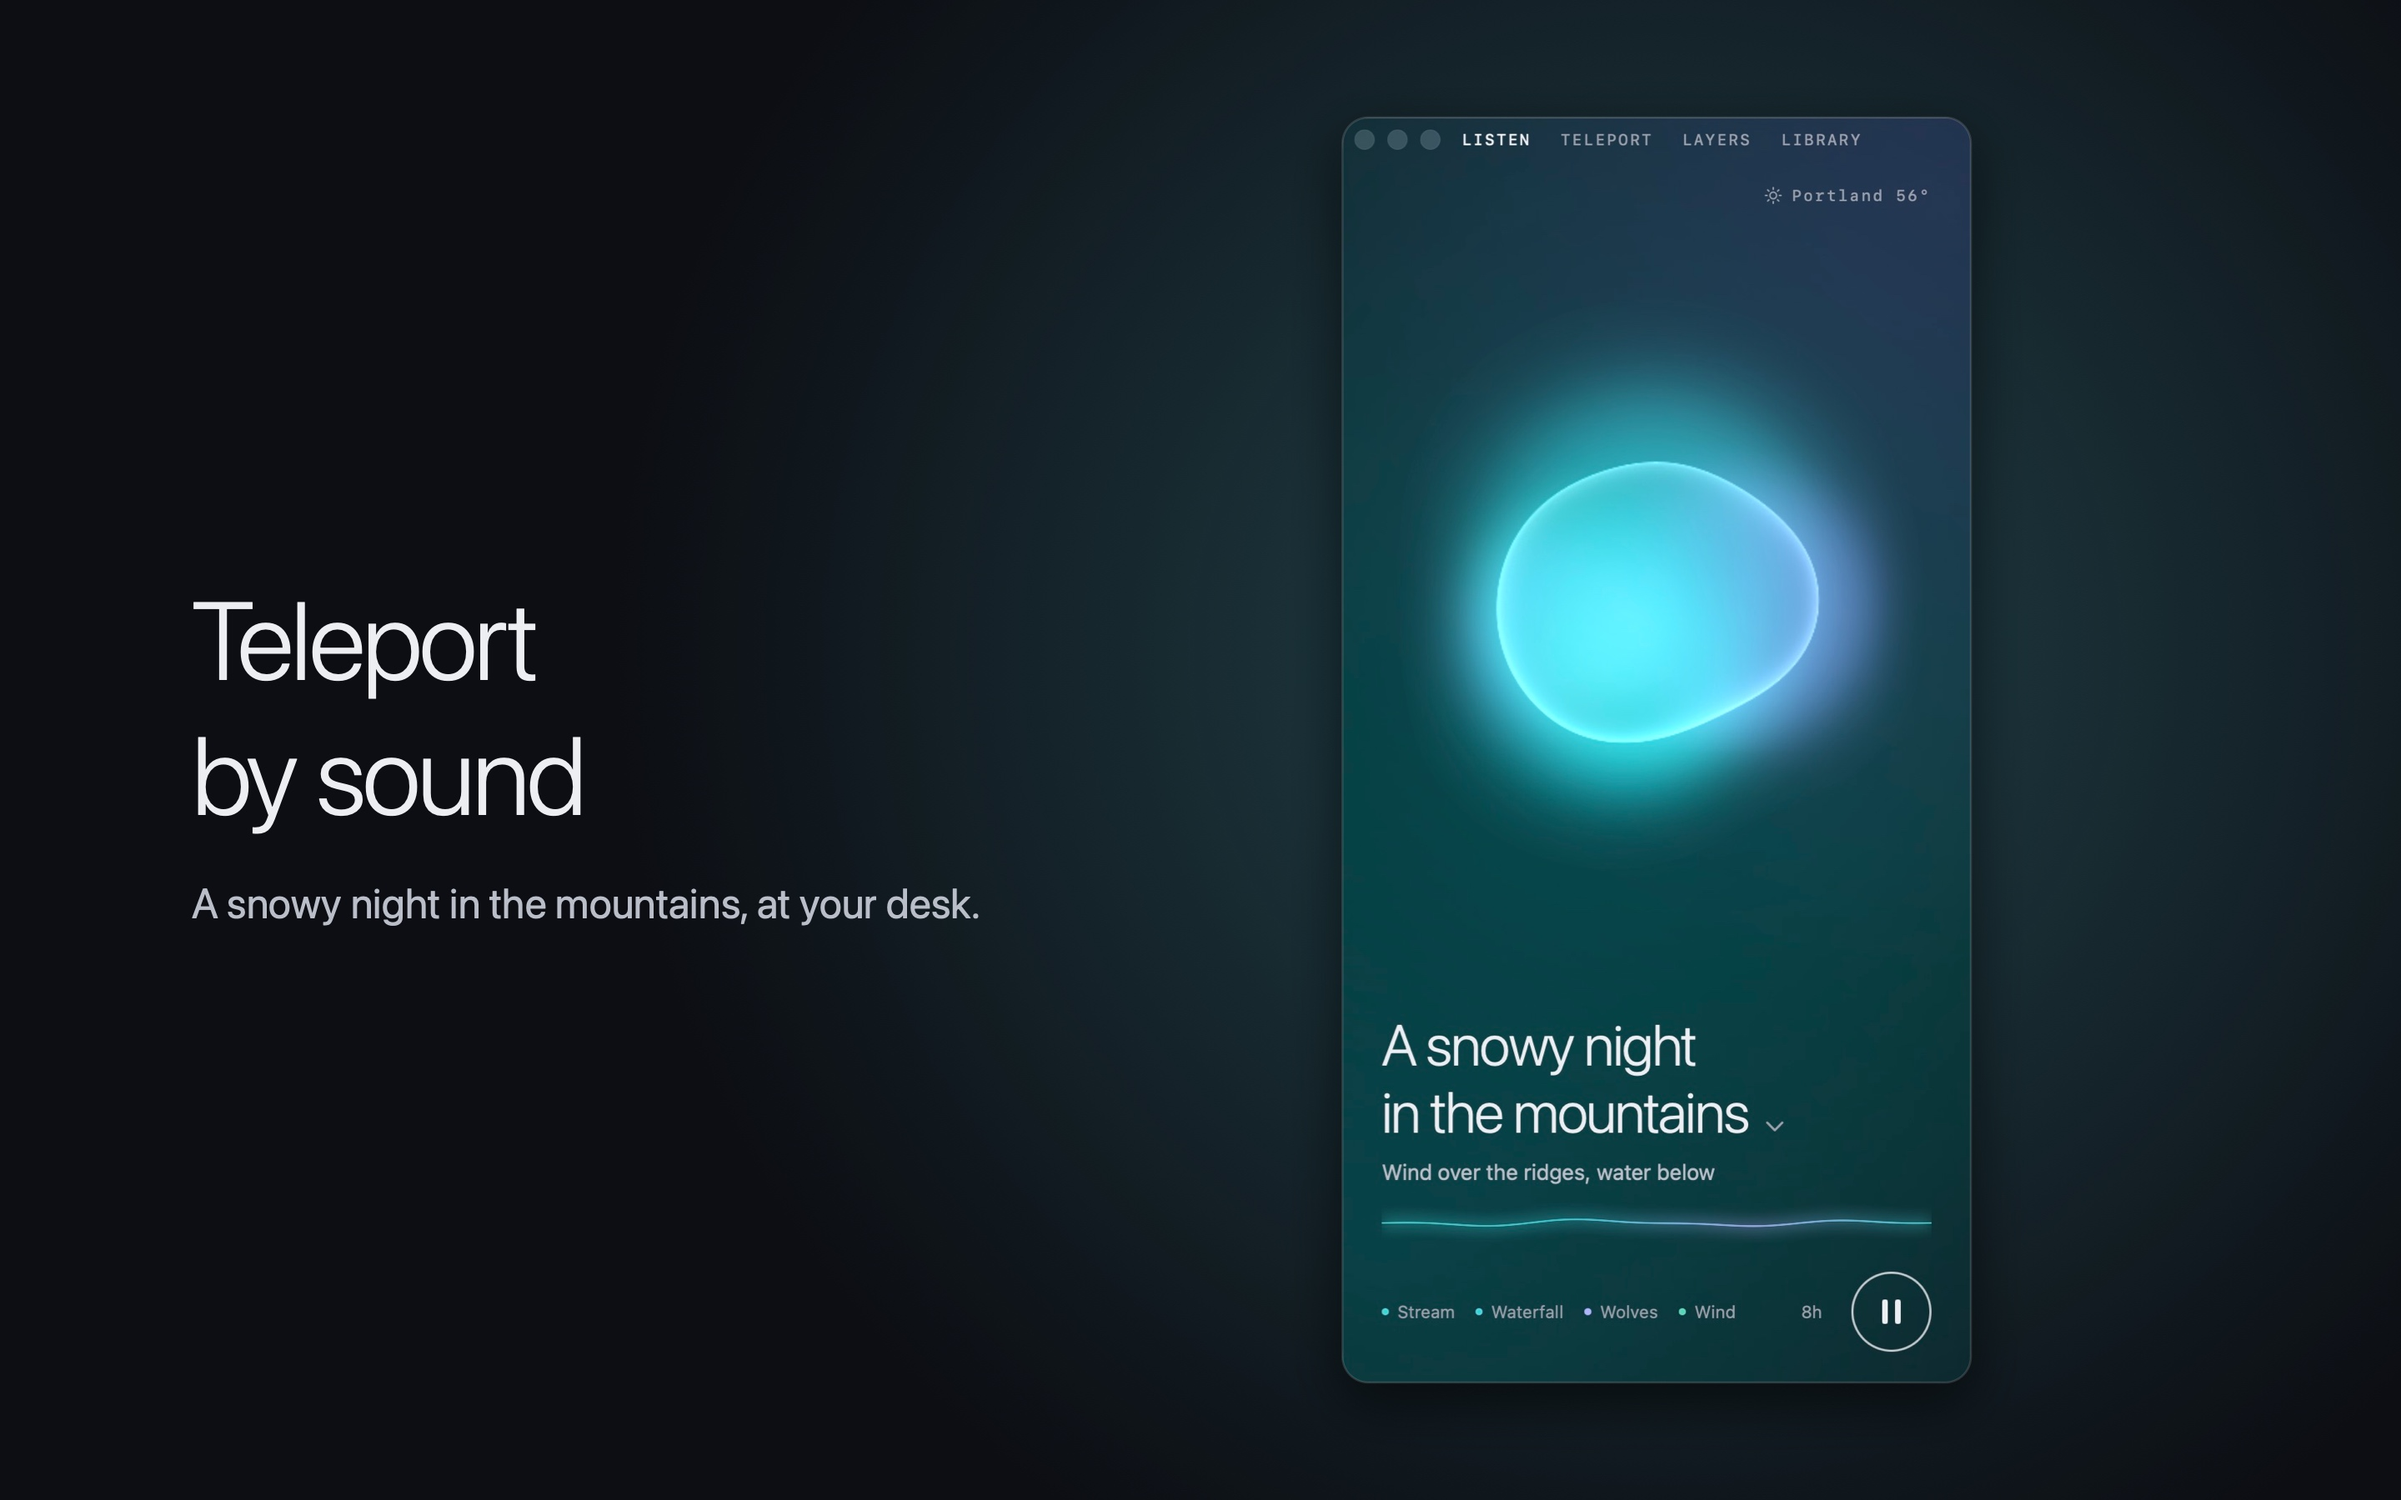
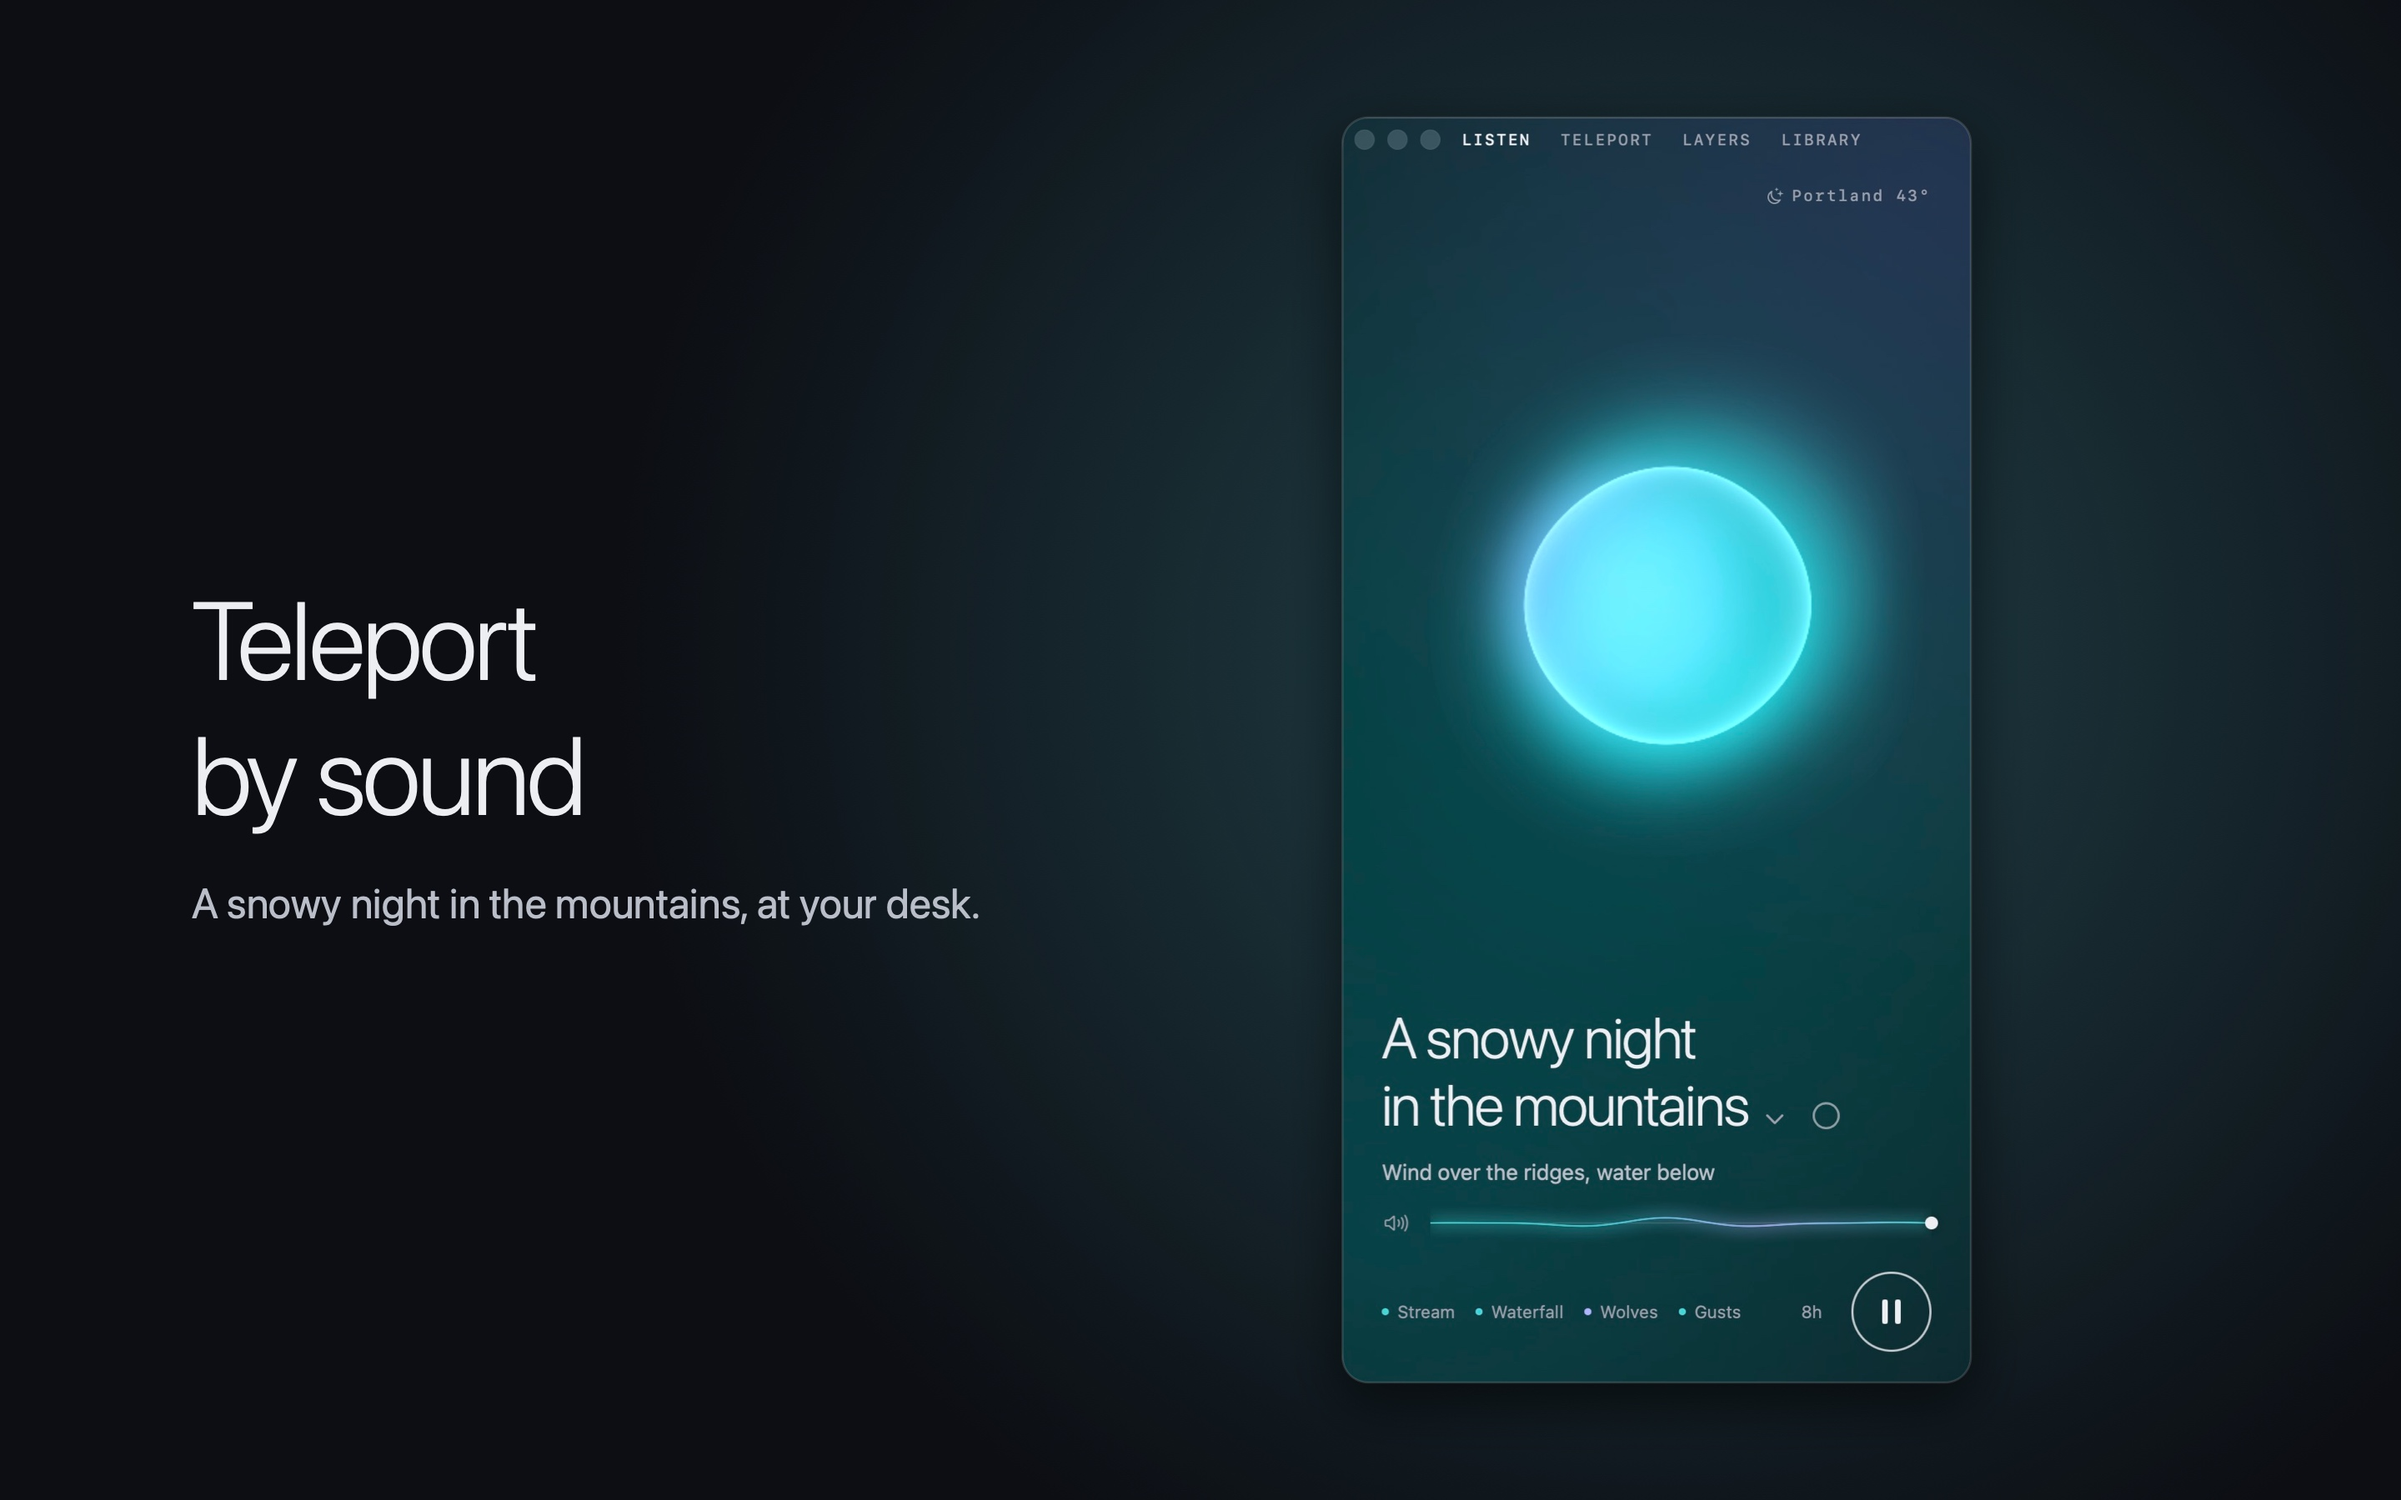
App Store screenshots for Mac, retaken: the volume line, Layers as levels, the menu bar's volume

diff --git a/design/screenshots/mac/compose.swift b/design/screenshots/mac/compose.swift
@@ -10,8 +10,8 @@ let W: CGFloat = 2880, H: CGFloat = 1800
 let shots: [(file: String, title: String, sub: String, glow: NSColor, height: CGFloat, trimTop: CGFloat)] = [
     ("1-listen", "Teleport\nby sound", "A snowy night in the mountains, at your desk.", NSColor(srgbRed: 0.3, green: 0.7, blue: 0.75, alpha: 1), 1520, 0),
     ("2-teleport", "Take me\nanywhere", "Build a scene in a sentence, or say it.", NSColor(srgbRed: 0.3, green: 0.5, blue: 0.85, alpha: 1), 1520, 0),
-    ("3-layers", "A landscape of\nwhat you hear", "Drag a sound closer to hear more.", NSColor(srgbRed: 0.35, green: 0.65, blue: 0.5, alpha: 1), 1520, 0),
-    ("4-menubar", "Always in your\nmenu bar", "Scenes, sleep timer and play, a click away.", NSColor(srgbRed: 0.3, green: 0.6, blue: 0.7, alpha: 1), 1300, 12),
+    ("3-layers", "Every sound,\nyour level", "Tap or drag across a layer to set it.", NSColor(srgbRed: 0.35, green: 0.65, blue: 0.5, alpha: 1), 1520, 0),
+    ("4-menubar", "Always in your\nmenu bar", "Scenes, volume, sleep timer and play, a click away.", NSColor(srgbRed: 0.3, green: 0.6, blue: 0.7, alpha: 1), 1300, 64),
 ]
 
 for dir in ["framed", "upload"] { try? FileManager.default.createDirectory(atPath: dir, withIntermediateDirectories: true) }
